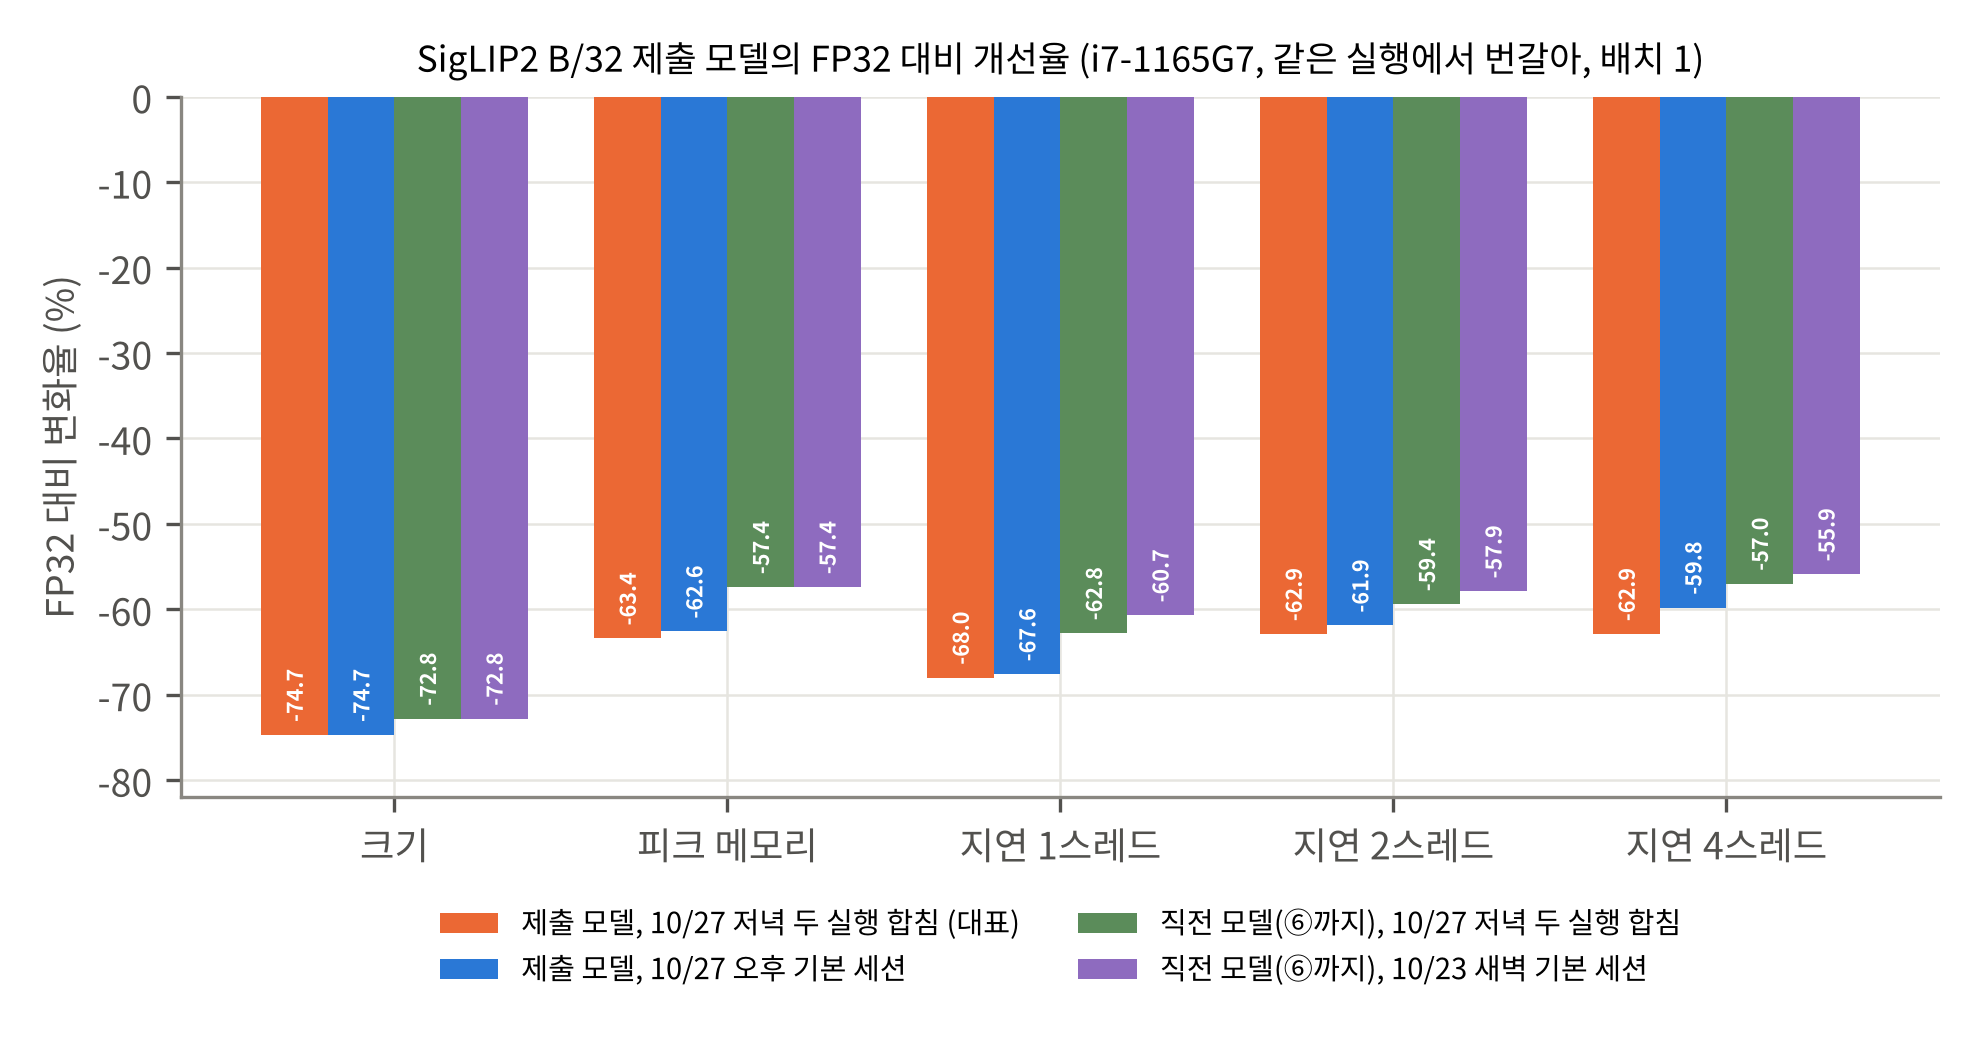
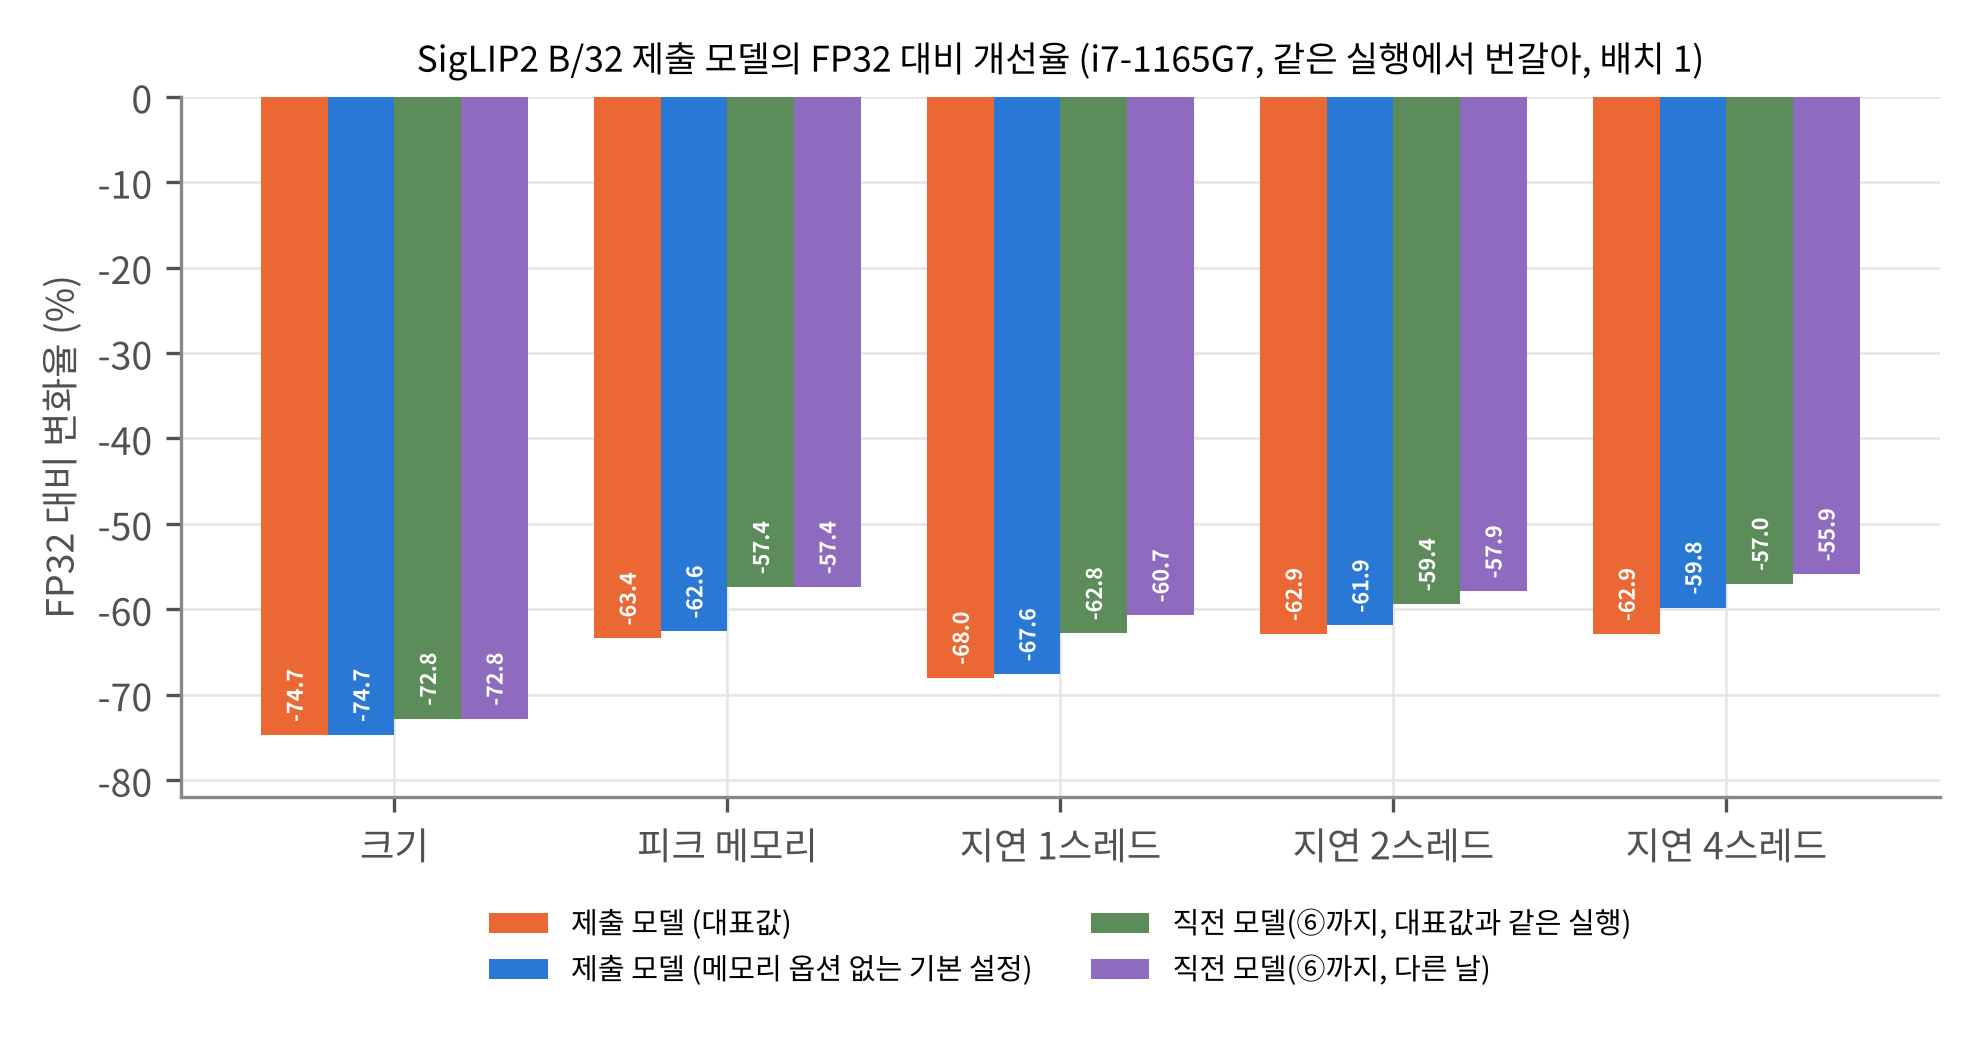
siglip2: 보고서 v13 측정 기록용 세부(날짜·회차·세션) 정리
- 6.5 여러 실행 표: 1회째/2회째 행과 날짜·ms 열 제거, 조건 이름을 뜻으로 (경향성만 보이게)
- 6.4·2장 각주·5.1·5.3 패치 행: 날짜, ms 나눗셈 값, 세션 단위 숫자 정리
- 그림 3 범례에서 날짜 제거

Claude-Session: https://claude.ai/code/session_01RaEAtofp3spvCsebtgT3MF

Changed region(s): [[0.2157, 0.8533, 0.8626, 0.9448]]

diff --git a/siglip2/scripts/make_figs_v13.py b/siglip2/scripts/make_figs_v13.py
@@ -48,10 +48,10 @@ plt.close(fig)
 
 # ---- 그림 3: 제출 모델의 FP32 대비 개선율 (i7, 같은 실행에서 번갈아)
 f3 = json.load(open(FIGS / "figs_data_b32.json", encoding="utf-8"))["F3b"]["pct_vs_fp32"]
-names = {"P2 (제출 모델), 10/27 저녁 두 실행 합침": "제출 모델, 10/27 저녁 두 실행 합침 (대표)",
-         "P2, 10/27 오후 기본 세션": "제출 모델, 10/27 오후 기본 세션",
-         "O-AB (전 단계 모델), 10/27 저녁 두 실행 합침": "직전 모델(⑥까지), 10/27 저녁 두 실행 합침",
-         "O-AB, 10/23 새벽 기본 세션": "직전 모델(⑥까지), 10/23 새벽 기본 세션"}
+names = {"P2 (제출 모델), 10/27 저녁 두 실행 합침": "제출 모델 (대표값)",
+         "P2, 10/27 오후 기본 세션": "제출 모델 (메모리 옵션 없는 기본 설정)",
+         "O-AB (전 단계 모델), 10/27 저녁 두 실행 합침": "직전 모델(⑥까지, 대표값과 같은 실행)",
+         "O-AB, 10/23 새벽 기본 세션": "직전 모델(⑥까지, 다른 날)"}
 assert list(f3) == list(names), list(f3)
 items = list(next(iter(f3.values())))
 fig, ax = plt.subplots(figsize=(6.6, 3.5))
